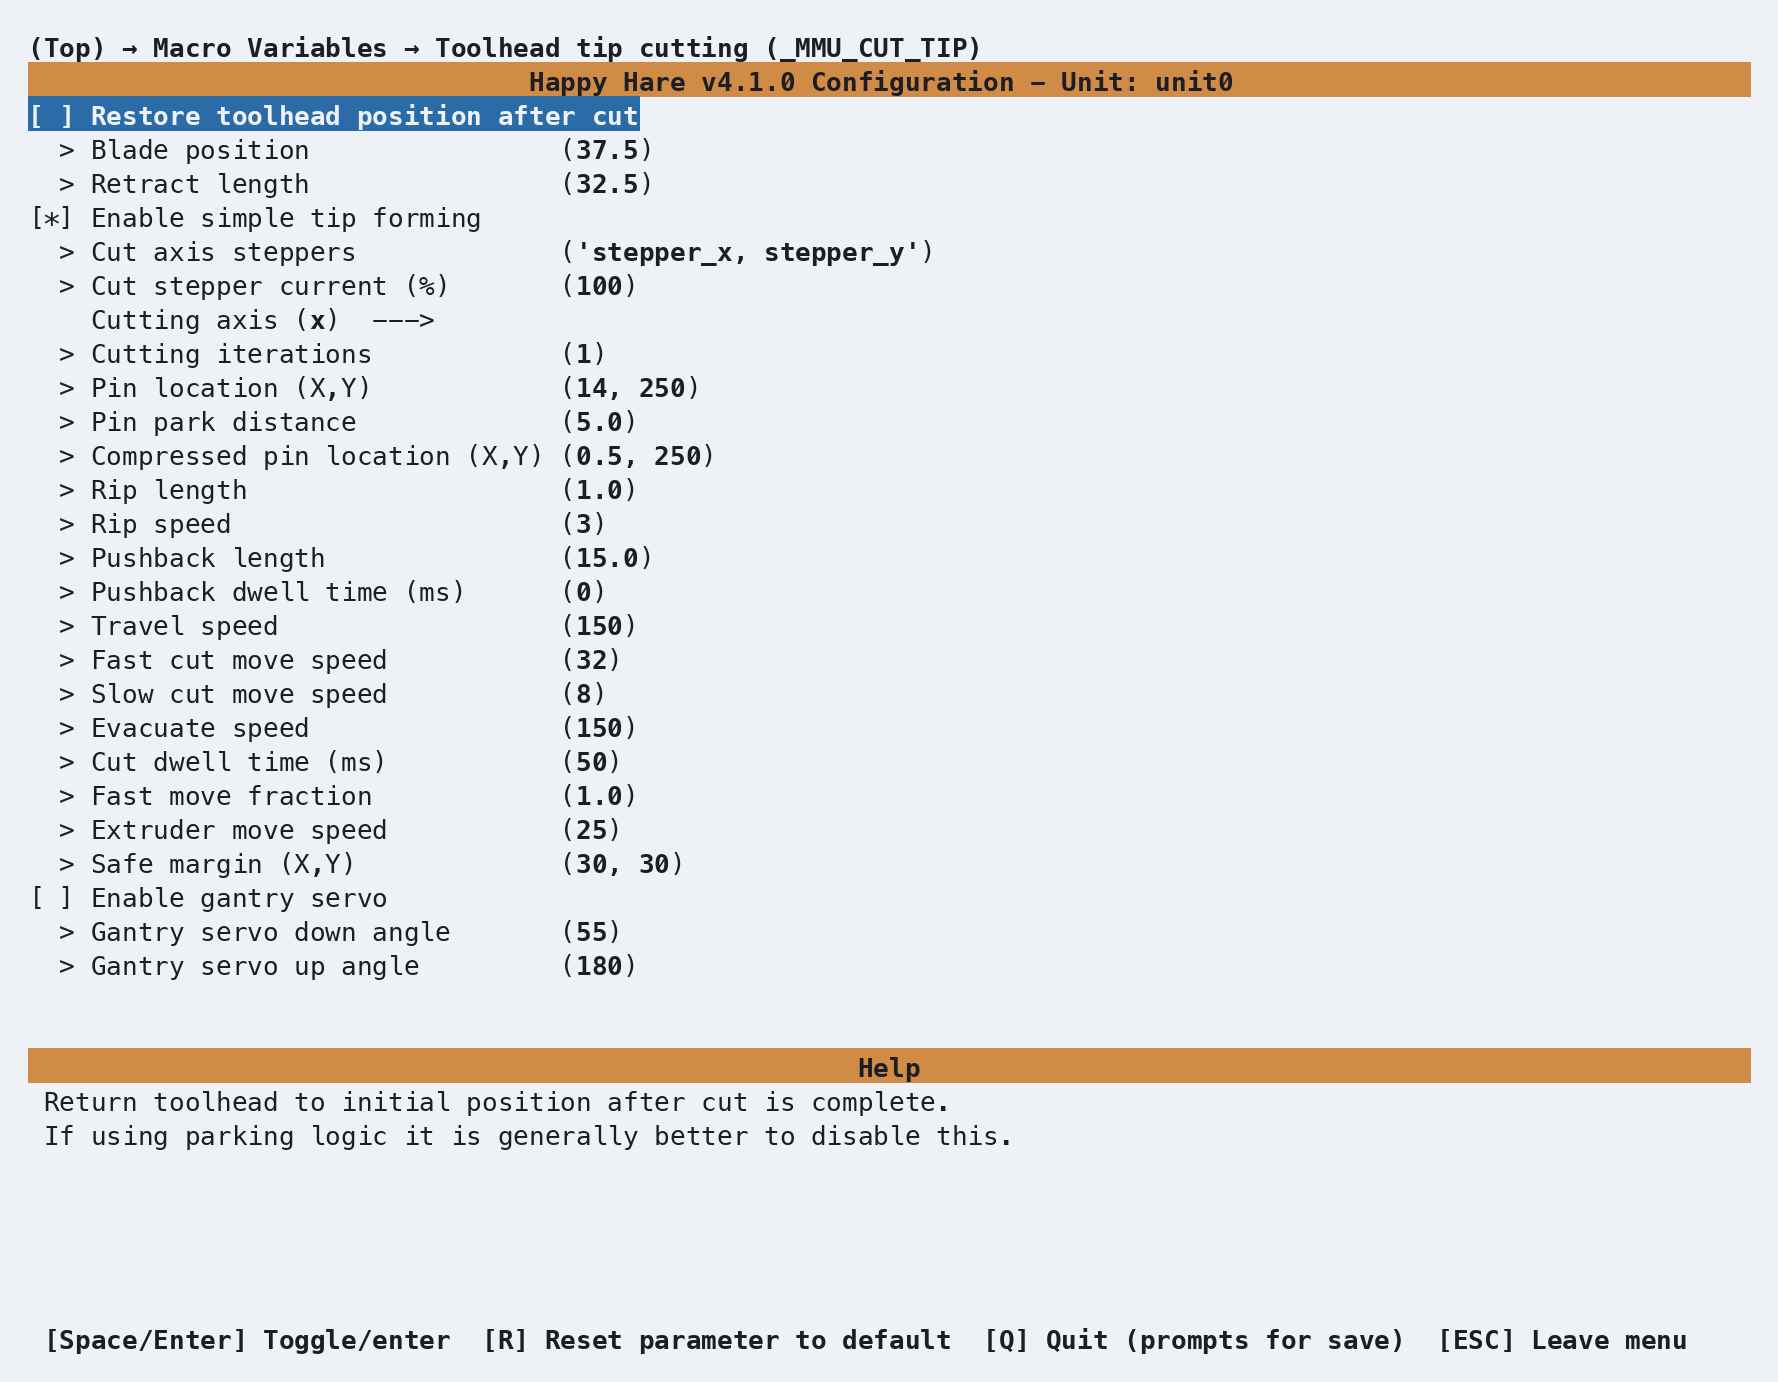
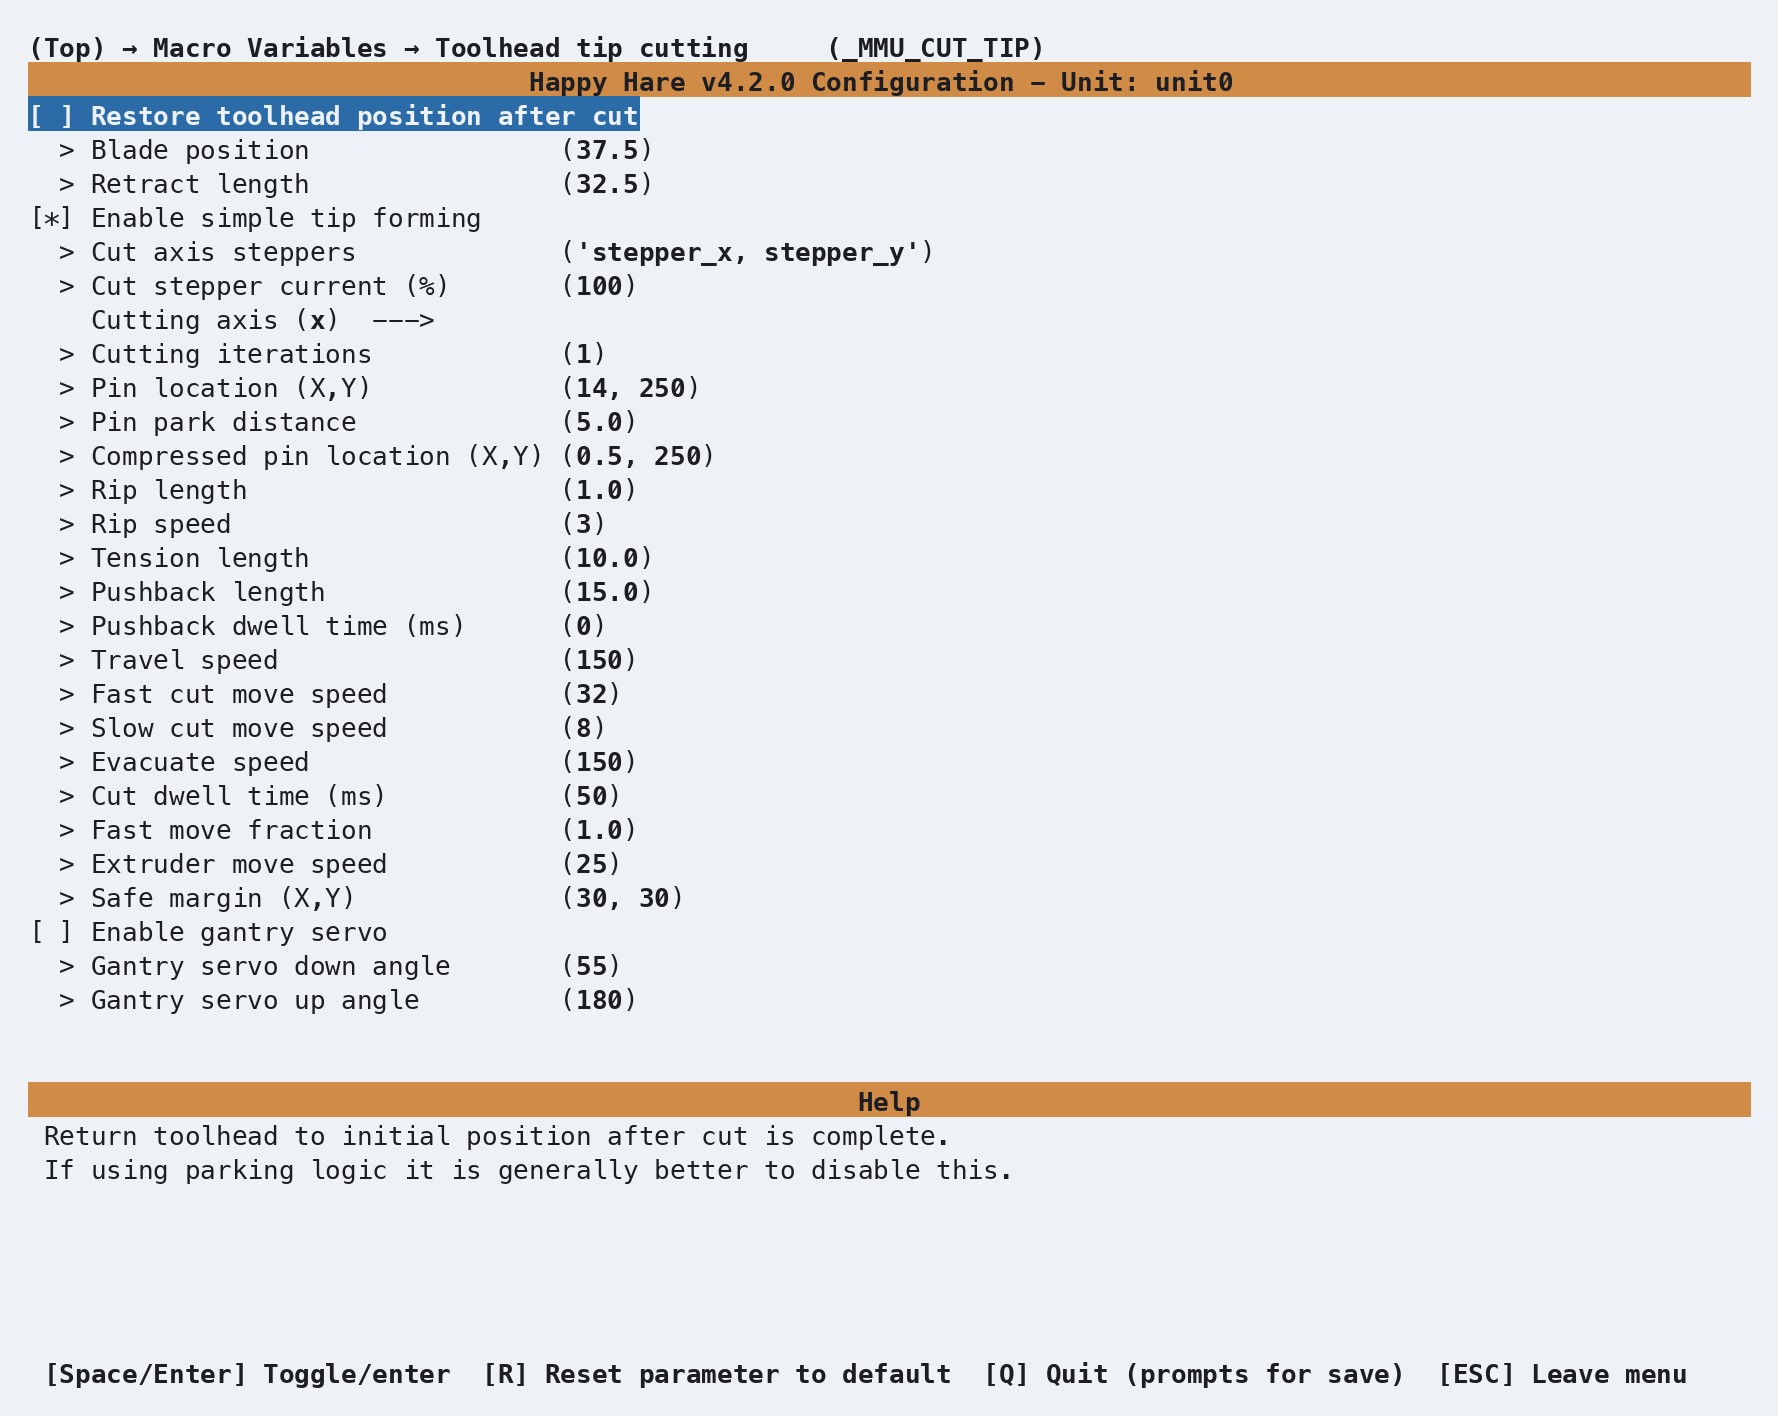
docs(cutter): document a tip cutter before the extruder
A new Toolhead Tip Cutting section covers the cut sequence, how the cut is
checked, and a worked example with real numbers, plus an illustration of
what each parameter controls. Adds tension_length to the macro variable
reference and refreshes the menuconfig screenshot, for moggieuk/Happy-Hare#1473.

diff --git a/doc/Macro-Toolhead-Tip-Cutting.md b/doc/Macro-Toolhead-Tip-Cutting.md
@@ -88,6 +88,117 @@ Use [unload validation](Feature-Tip-Forming-Purging.md#unload-validation) to
 warn about unexpectedly long sensor-clearing moves after a cut. Start with
 `toolhead_unload_test: 1` and confirm the dimensions before using pause mode.
 
+## Cutter before the extruder
+
+Some toolheads only have room for the blade before the extruder gears - for
+example the Qidi Plus4, Biqu H2 or Smart Orbiter 3. Happy Hare treats the
+cutter this way whenever `blade_pos` is greater than
+`toolhead_extruder_to_nozzle`. There's no separate setting.
+
+<p align="center">
+  <img src="Macro-Toolhead-Tip-Cutting/cutter-before-extruder.svg" alt="Three side views of a toolhead with the blade at 85mm, before the extruder gears at 72mm: the tip is retracted to 35mm and the gear tensions the filament, the blade cuts and the extruder pushes the fragment 1mm off the blade, then a synced 28mm pushback leaves a 50mm fragment between 7mm and 57mm, clear of the toolhead sensor at 62mm" width="95%">
+</p>
+
+### How the cut works
+
+1. **Retract.** The tip is retracted to `retract_length` above the nozzle,
+   as for any cut. It must still be past the gears, so the extruder grips
+   what becomes the fragment.
+2. **Tension.** The gear retracts `tension_length` while the extruder holds
+   the tip, pulling the filament taut across the blade for a clean cut.
+3. **Cut and rip.** After the cut, the extruder alone pushes the fragment
+   `rip_length` off the blade. A cutter after the extruder gears retracts
+   instead, but here that would pull the fragment back into the blade.
+4. **Pushback.** A synced `pushback_length` push and return carries the
+   fragment past the gears and leaves the filament end back at the blade.
+5. **Unload.** Happy Hare checks the cut (below). The filament end has
+   already left the extruder, so the bowden unload is shortened by
+   `blade_pos - toolhead_extruder_to_nozzle`.
+
+The fragment, `blade_pos - retract_length` long, stays in the toolhead.
+The next load pushes it through the nozzle, and it's counted in the purge
+volume.
+
+### Checking the cut
+
+A missed cut leaves the filament gripped by the extruder, and the bowden
+unload would then grind it. So straight after the cut, Happy Hare checks it
+with the first of these that's fitted:
+
+| Fitted | Check |
+|---|---|
+| Extruder sensor between the blade and the gears | The sensor must already be clear |
+| Extruder sensor before the blade | The gear must pull the filament clear of the sensor |
+| Encoder | A short gear-only pull must move the filament |
+| Sync-feedback buffer | A short gear-only pull must not put the buffer into tension |
+
+A missed cut pauses before anything is pulled through the bowden. If none of
+these is fitted the cut can't be checked, and the unload continues.
+`MMU_STATUS SHOWCONFIG=1` shows which check is used.
+
+### Worked example
+
+This is the toolhead in the illustration above. Its dimensions come from
+`[mmu_toolhead]` in `mmu.cfg`, plus `blade_pos` measured from the internal
+nozzle tip:
+
+| Dimension | Value |
+|---|---|
+| `toolhead_extruder_to_nozzle` | `72` |
+| `toolhead_sensor_to_nozzle` | `62` |
+| `toolhead_entry_to_extruder` | `8` (the extruder sensor is at 80) |
+| `toolhead_residual_filament` | `2` |
+| Toolchange retract (`park_toolchange`) | `2` |
+| `blade_pos` | `85` |
+
+1. **Clear the gears.** `pushback_length` must be at least
+   `blade_pos - toolhead_extruder_to_nozzle + 3`: here 85 - 72 + 3 = 16mm.
+   Any less, and a stub left in the gears would block the next load.
+2. **Clear the toolhead sensor.** The pushback must also take the fragment
+   past the toolhead sensor: more than `blade_pos - toolhead_sensor_to_nozzle`,
+   which is 23mm. Choose `pushback_length: 28`, which leaves the fragment's
+   top at 57mm, 5mm clear of the sensor.
+3. **Leave room for the pushback.** The pushback can't be more than the
+   retract left after the residual filament and the toolchange retract, so
+   `retract_length` must be at least 28 + 2 + 2 = 32. It must also stay below
+   72, so the tip is still gripped. A longer retract leaves a shorter
+   fragment. Choose `retract_length: 35`.
+4. **Keep the defaults** for `rip_length: 1` and `tension_length: 10`.
+
+```ini
+[gcode_macro _MMU_CUT_TIP_VARS]
+variable_blade_pos          : 85
+variable_retract_length     : 35
+variable_pushback_length    : 28
+variable_rip_length         : 1.0
+variable_tension_length     : 10.0
+```
+
+That cuts a 50mm fragment, which ends up 7mm to 57mm above the nozzle. The
+bowden unload is 13mm shorter. On the next load, the new filament homes to
+the toolhead sensor and then moves 62 - 50 - 2 - 2 = 8mm, pushing the
+fragment through to the nozzle.
+
+!!! note "Checks on the pushback"
+    If `pushback_length` or `retract_length` is too short to carry the
+    fragment 3mm past the gears, Happy Hare reports an error at startup and
+    `MMU_STATUS SHOWCONFIG=1` highlights it. The cut itself is then refused
+    with a pause before the blade moves, so the filament is left whole.
+
+### Limitations
+
+- **Toolhead sensor.** The pushback must clear the toolhead sensor. If the
+  fragment is still on it, the next load stops with "Possible toolhead
+  sensor malfunction".
+- **Blade calibration.** `MMU_CALIBRATE_TOOLHEAD CUT=1` can't measure
+  `blade_pos` for this layout, so measure it by hand.
+- **No-bowden MMUs.** On a no-bowden MMU (such as 3MS) whose gate endstop is
+  the extruder sensor, a blade before that sensor leaves the filament end
+  already past it. The unload then parks a few mm further back than
+  usual; the next load homes to the same sensor.
+- **Testing a missed cut.** To see the missed-cut check work, run one
+  toolchange with the blade disabled.
+
 ## See also
 
 - [Feature: Tip Forming and Purging](Feature-Tip-Forming-Purging.md#toolhead-cutter-_mmu_cut_tip) -

diff --git a/doc/Reference-Macro-Vars.md b/doc/Reference-Macro-Vars.md
@@ -121,7 +121,7 @@ the mechanical routine; this is every knob involved.
 | Variable | Default | Description |
 |---|---|---|
 | `restore_position` | `False` | Return the toolhead to its position before the cut - leave off if using the parking logic above instead |
-| `blade_pos` | `37.5` mm | Distance from the internal nozzle tip to the cutting blade - a toolhead dimension, not a tuning value |
+| `blade_pos` | `37.5` mm | Distance from the internal nozzle tip to the cutting blade - a toolhead dimension, not a tuning value. Greater than `toolhead_extruder_to_nozzle` means the [cutter is before the extruder](Macro-Toolhead-Tip-Cutting.md#cutter-before-the-extruder) |
 | `retract_length` | `32.5` mm | Retract distance before the cut, measured from the nozzle tip - must be less than `blade_pos`; ~5mm less is a good starting point |
 | `simple_tip_forming` | `True` | Do a simple tip-forming move after the initial retraction, for extra cooling time |
 | `cut_axis_steppers` | `stepper_x, stepper_y` | Steppers to boost current on during the cut |
@@ -130,8 +130,9 @@ the mechanical routine; this is every knob involved.
 | `pin_loc_xy` | `14, 250` | X,Y of the depressor pin - where the cutter arm just touches it |
 | `pin_park_dist` | `5.0` mm | Distance added to (or subtracted from) `pin_loc_xy` along `cutting_axis`, for a safe starting position with room to build momentum |
 | `pin_loc_compressed_xy` | `0.5, 250` | X,Y when the cutter is fully compressed |
-| `rip_length` | `1.0` mm | Retract distance after the cut, to free the blade before returning |
+| `rip_length` | `1.0` mm | Retract distance after the cut, to free the blade before returning. With the cutter before the extruder the extruder pushes the fragment this far instead |
 | `rip_speed` | `3` mm/s | Speed of that retract |
+| `tension_length` | `10.0` mm | Cutter before the extruder only: how far the gear retracts before the cut to pull the filament taut across the blade (`0` disables) |
 | `pushback_length` | `15.0` mm | How far the cut fragment is pushed back into the hotend, so it can't cause a future clog - can't exceed `retract_length` minus `toolhead_ooze_reduction` |
 | `pushback_dwell_time` | `0` ms | Dwell time after the pushback |
 | `travel_speed` | `150` mm/s | General travel speed for the cut sequence |

diff --git a/doc/Feature-Tip-Forming-Purging.md b/doc/Feature-Tip-Forming-Purging.md
@@ -156,6 +156,10 @@ switch to it with `form_tip_macro: _MMU_CUT_TIP` in `mmu.cfg`.
   the cutter lives in the toolhead, cutting there wastes a little more
   filament and time during the purge than a clean-formed tip would.
 
+If the blade sits before the extruder gears rather than between the gears
+and the nozzle, see [Cutter before the
+extruder](Macro-Toolhead-Tip-Cutting.md#cutter-before-the-extruder).
+
 Mechanically, a toolhead cutter is normally triggered by moving the
 toolhead itself into a fixed position that presses a depressor or servo arm
 against the cutter's own activation mechanism - rather than the cutter
